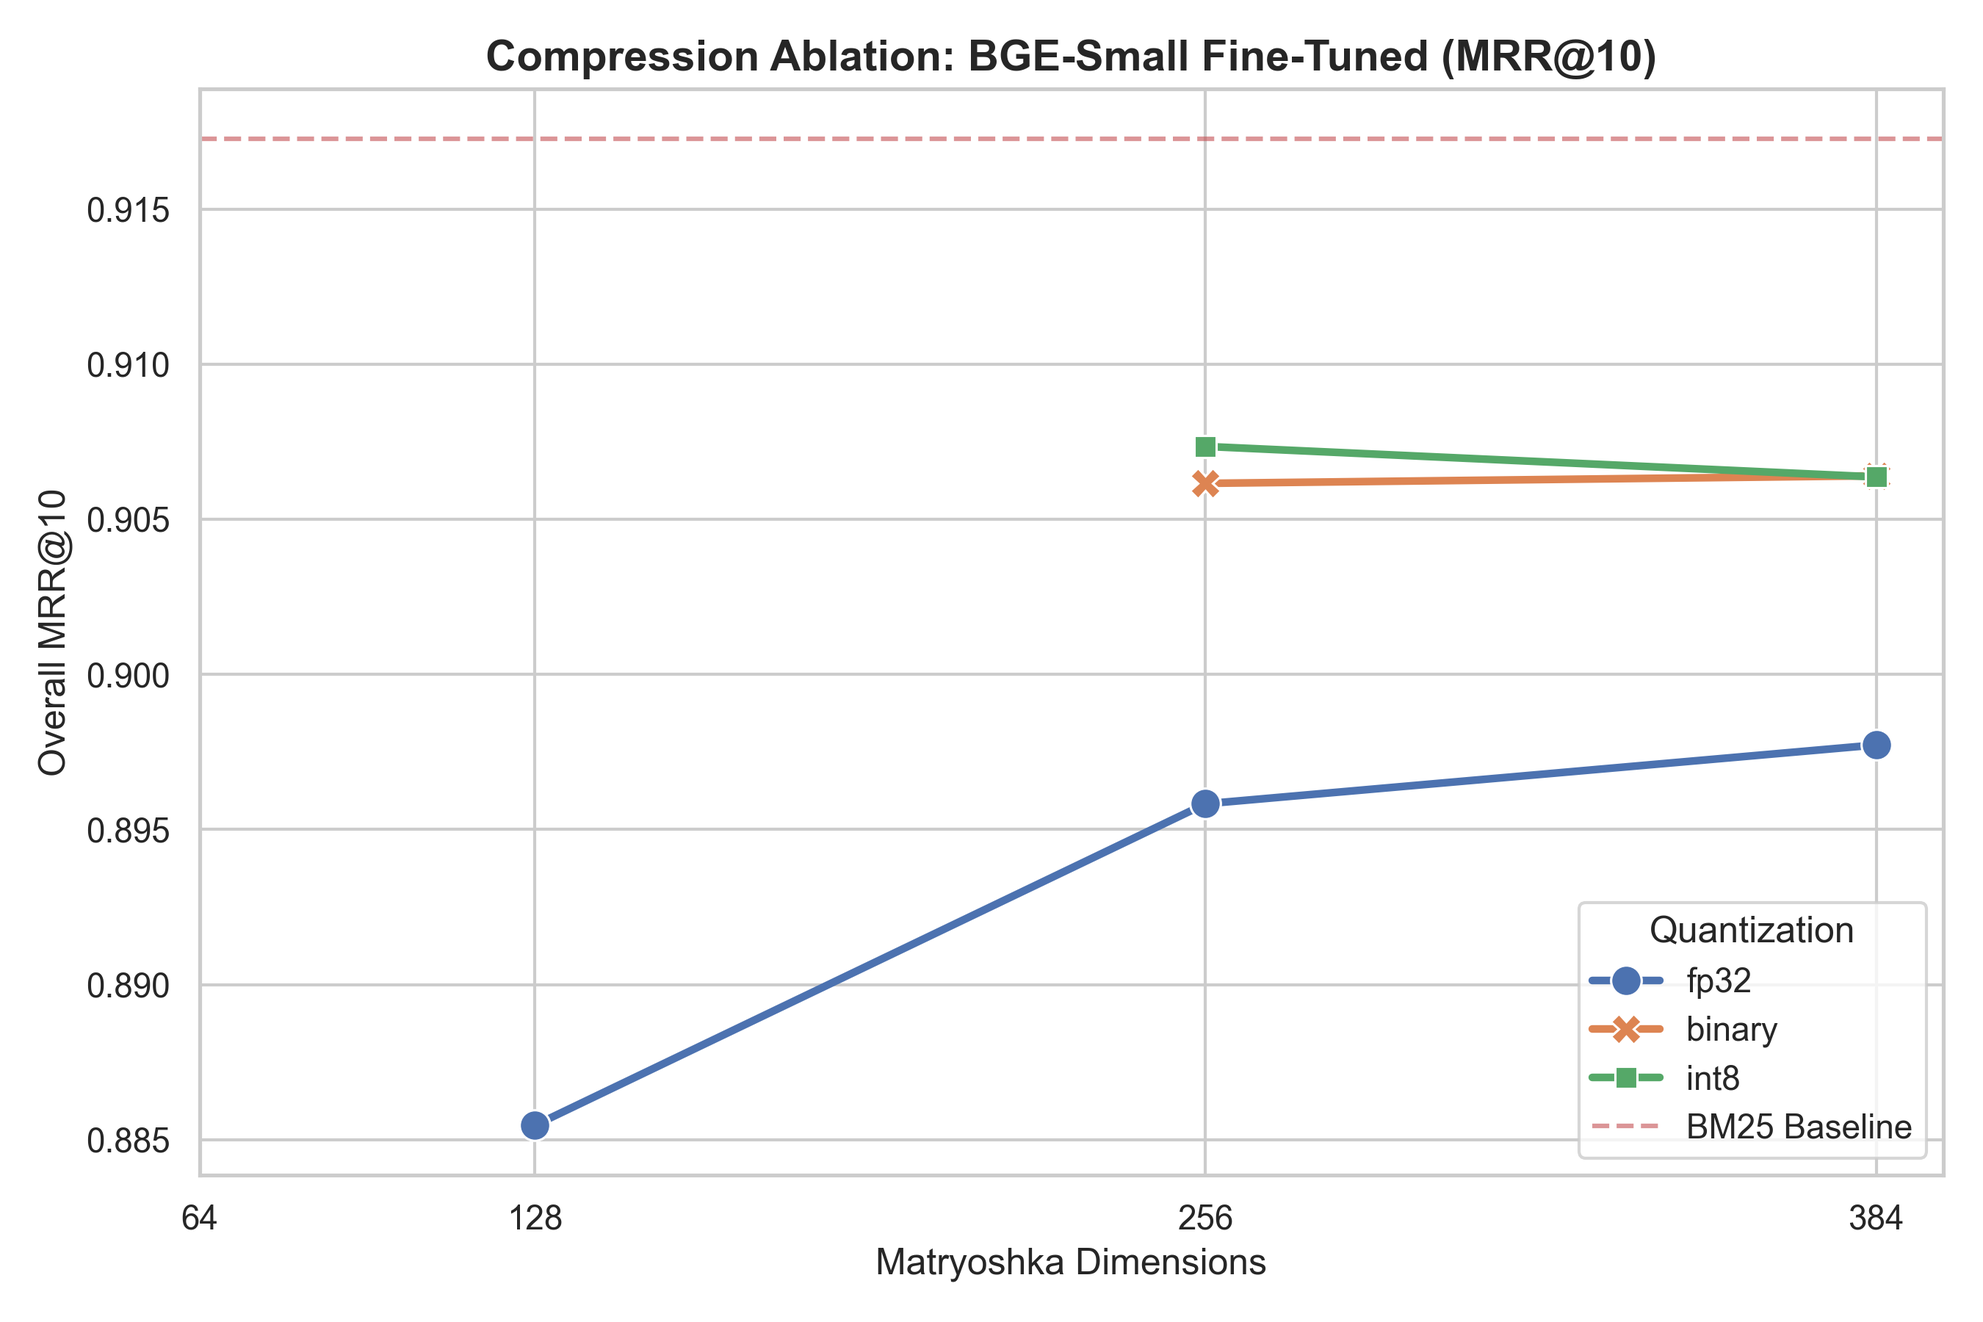
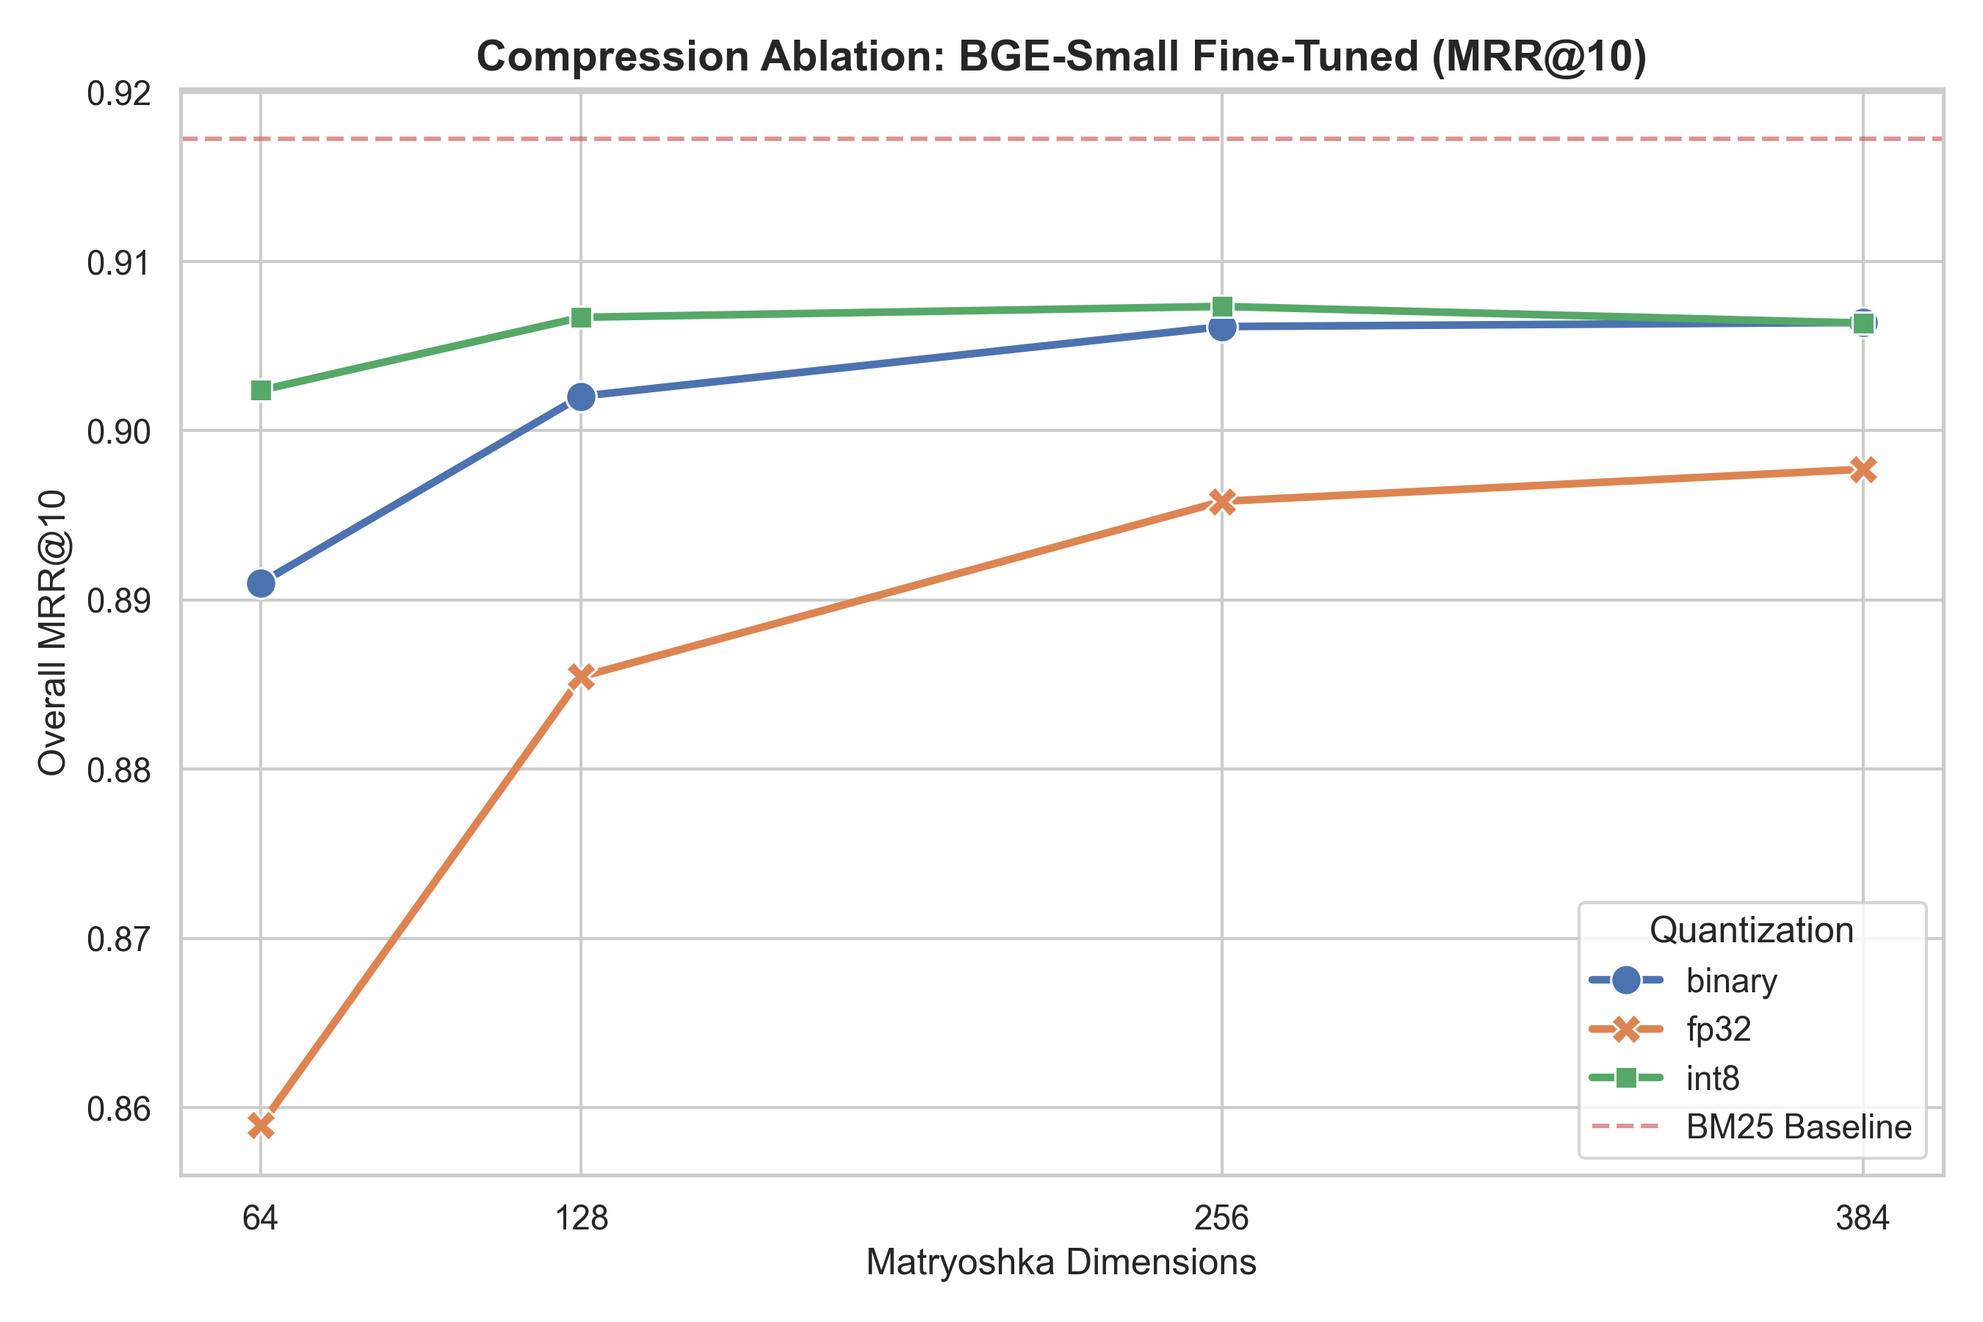
Update blog post, plots, and tables with ModernBERT and Nomic results

diff --git a/scripts/generate_plots.py b/scripts/generate_plots.py
@@ -39,7 +39,8 @@ base_dims = df[((df['model'] == 'gte_modernbert_base') & (df['dims'] == 768)) |
                ((df['model'] == 'nomic_v15') & (df['dims'] == 768))]
 sns.barplot(data=base_dims, x='model', y='overall_mrr_at_10', hue='mode', palette='muted')
 
-bm25_mrr = df[df['model']=='bm25_baseline']['overall_mrr_at_10'].iloc[0]
+bm25_row = df[df['model']=='bm25_baseline'].iloc[0]
+bm25_mrr = bm25_row['overall_mrr_at_10']
 plt.axhline(y=bm25_mrr, color='r', linestyle='--', linewidth=2, label=f'BM25 Baseline ({bm25_mrr:.3f})')
 
 plt.title('Overall MRR@10: Zero-Shot vs Fine-Tuned (Uncompressed Index)', fontsize=14, fontweight='bold')
@@ -51,66 +52,72 @@ plt.tight_layout()
 plt.savefig('results/plots/mrr_overall.png', dpi=300)
 plt.close()
 
-# 2. BGE Small - Dimensionality & Quantization Grid (MRR@10)
-plt.figure(figsize=(9, 6))
-bge_ft = df[(df['model'] == 'bge_small') & (df['mode'] == 'Fine-Tuned')].sort_values('dims')
-sns.lineplot(data=bge_ft, x='dims', y='overall_mrr_at_10', hue='quantization', style='quantization',
-             markers=True, dashes=False, linewidth=2.5, markersize=10, palette='deep')
+# 2. Compression Ablation - All 4 models
+models = ['gte_modernbert_base', 'nomic_v15', 'bge_small', 'minilm_l6']
+fig, axes = plt.subplots(2, 2, figsize=(15, 10), sharey=True)
+axes = axes.flatten()
 
-plt.axhline(y=bm25_mrr, color='r', linestyle='--', alpha=0.6, label='BM25 Baseline')
-plt.title('Compression Ablation: BGE-Small Fine-Tuned (MRR@10)', fontsize=14, fontweight='bold')
-plt.xlabel('Matryoshka Dimensions', fontsize=12)
-plt.ylabel('Overall MRR@10', fontsize=12)
-plt.xticks([64, 128, 256, 384])
-plt.legend(title='Quantization', loc='lower right')
-plt.tight_layout()
-plt.savefig('results/plots/bge_ablation.png', dpi=300)
+for i, model in enumerate(models):
+    ax = axes[i]
+    model_ft = df[(df['model'] == model) & (df['mode'] == 'Fine-Tuned')].sort_values('dims')
+    if model_ft.empty:
+        model_ft = df[(df['model'] == model)].sort_values('dims')
+        title_suffix = "(All data)"
+    else:
+        title_suffix = "(Fine-Tuned)"
+        
+    sns.lineplot(data=model_ft, x='dims', y='overall_mrr_at_10', hue='quantization', style='quantization',
+                 markers=True, dashes=False, linewidth=2, ax=ax, palette='deep')
+    
+    ax.axhline(y=bm25_mrr, color='r', linestyle='--', alpha=0.4)
+    ax.set_title(f'{model} {title_suffix}', fontsize=12, fontweight='bold')
+    ax.set_xlabel('Dimensions')
+    ax.set_ylabel('Overall MRR@10')
+
+plt.suptitle('Compression Ablation across All Models (MRR@10)', fontsize=16, fontweight='bold')
+plt.tight_layout(rect=[0, 0.03, 1, 0.95])
+plt.savefig('results/plots/all_models_ablation.png', dpi=300)
 plt.close()
 
-# 3. Latency vs MRR@10 Pareto Frontier for fine-tuned compressed indexes
-plt.figure(figsize=(10, 6))
-ft_variants = df[(df['mode'] == 'Fine-Tuned') & (df['model'].isin(['bge_small', 'minilm_l6']))]
+# 3. Latency vs MRR@10 Pareto Frontier - All models
+plt.figure(figsize=(12, 7))
+all_variants = df[df['model'].isin(models) & (df['model'] != 'bm25_baseline')]
 
-sns.scatterplot(data=ft_variants, x='latency_p50', y='overall_mrr_at_10', 
-                hue='model', style='quantization', s=150, palette='colorblind')
+sns.scatterplot(data=all_variants, x='latency_p50', y='overall_mrr_at_10', 
+                hue='model', style='mode', size='dims', sizes=(20, 200), alpha=0.7, palette='viridis')
 
-# Annotate points with dimensions
-for i in range(ft_variants.shape[0]):
-    row = ft_variants.iloc[i]
-    plt.text(row['latency_p50']+0.2, row['overall_mrr_at_10'] - 0.002, f"{int(row['dims'])}D", fontsize=9)
-
-bm25_lat = df[df['model']=='bm25_baseline']['latency_p50'].iloc[0]
+bm25_lat = bm25_row['latency_p50']
 plt.axhline(y=bm25_mrr, color='red', linestyle='--', alpha=0.5, label='BM25 MRR')
 plt.axvline(x=bm25_lat, color='red', linestyle=':', alpha=0.5, label='BM25 Latency')
 
-plt.title('Pareto Frontier: Latency vs MRR@10 (Fine-Tuned Models)', fontsize=14, fontweight='bold')
+plt.title('Pareto Frontier: Latency vs MRR@10 (All Models & Configurations)', fontsize=14, fontweight='bold')
 plt.xlabel('Latency p50 (ms)', fontsize=12)
 plt.ylabel('Overall MRR@10', fontsize=12)
 plt.legend(bbox_to_anchor=(1.05, 1), loc='upper left')
 plt.tight_layout()
-plt.savefig('results/plots/latency_pareto.png', dpi=300)
+plt.savefig('results/plots/latency_pareto_all.png', dpi=300)
 plt.close()
 
-# 4. Bucket Heatmap
-bm25 = df[df['model'] == 'bm25_baseline'].iloc[0]
-gte_zs = df[(df['model'] == 'gte_modernbert_base') & (df['mode'] == 'Zero-Shot')].iloc[0]
-gte_ft = df[(df['model'] == 'gte_modernbert_base') & (df['mode'] == 'Fine-Tuned')].iloc[0]
-bge_ft_base = df[(df['model'] == 'bge_small') & (df['mode'] == 'Fine-Tuned') & (df['dims'] == 384) & (df['quantization'] == 'fp32')].iloc[0]
-
+# 4. Bucket Heatmap - Best variants of each model
 buckets = ['pristine', 'missing_firstname', 'missing_email_company', 'typo_name', 'domain_mismatch', 'swapped_attributes']
 heatmap_data = []
-labels = ['BM25 Baseline', 'GTE ModernBERT (Zero-Shot)', 'GTE ModernBERT (Fine-Tuned)', 'BGE Small (Fine-Tuned, 384D, fp32)']
+labels = []
 
-for row in [bm25, gte_zs, gte_ft, bge_ft_base]:
-    heatmap_data.append([row[f"{b}_mrr_at_10"] for b in buckets])
+# BM25
+heatmap_data.append([bm25_row[f"{b}_mrr_at_10"] for b in buckets])
+labels.append('BM25 Baseline')
 
-plt.figure(figsize=(11, 5))
+for model in models:
+    best_run = df[df['model'] == model].sort_values('overall_mrr_at_10', ascending=False).iloc[0]
+    heatmap_data.append([best_run[f"{b}_mrr_at_10"] for b in buckets])
+    labels.append(f'{model} (Best)')
+
+plt.figure(figsize=(12, 6))
 sns.heatmap(heatmap_data, annot=True, fmt=".3f", cmap="YlGnBu", xticklabels=buckets, yticklabels=labels, vmin=0.3, vmax=1.0)
-plt.title('MRR@10 by Corruption Category', fontsize=14, fontweight='bold')
+plt.title('MRR@10 by Category: Model Comparison (Best Configs)', fontsize=14, fontweight='bold')
 plt.xticks(rotation=20, ha='right', fontsize=10)
-plt.yticks(fontsize=10)
 plt.tight_layout()
-plt.savefig('results/plots/bucket_heatmap.png', dpi=300)
+plt.savefig('results/plots/bucket_heatmap_all.png', dpi=300)
 plt.close()
 
-print("Enhanced plots generated.")
+print("All-model enhanced plots generated.")

diff --git a/scripts/format_grid.py b/scripts/format_grid.py
@@ -22,7 +22,7 @@ pivot_mrr = df_emb.pivot_table(index=['model', 'mode', 'dims'], columns='quantiz
 pivot_r10 = df_emb.pivot_table(index=['model', 'mode', 'dims'], columns='quantization', values='overall_recall_at_10', aggfunc='first').reset_index()
 pivot_size = df_emb.pivot_table(index=['model', 'mode', 'dims'], columns='quantization', values='index_size_mb', aggfunc='first').reset_index()
 
-# Sort descending by dims
+# Sort
 pivot_mrr = pivot_mrr.sort_values(by=['model', 'mode', 'dims'], ascending=[True, False, False])
 
 def fmt_val(val):
@@ -38,25 +38,43 @@ out.append("## Appendix: Comprehensive Ablation Grids")
 out.append("The following tables present the full ablation results for Matryoshka dimensions against quantization levels, grouping the key metrics side-by-side to allow for direct evaluation of compression tradeoffs.")
 out.append("")
 
-models = ['bge_small', 'minilm_l6']
+models = ['gte_modernbert_base', 'nomic_v15', 'bge_small', 'minilm_l6']
 for model in models:
-    out.append(f"### Model: `{model}` (Fine-Tuned)")
-    out.append("| Dimensions | FP32 (MRR | R@10 | Size) | INT8 (MRR | R@10 | Size) | Binary (MRR | R@10 | Size) |")
-    out.append("|---|---|---|---|")
-    
-    sub = pivot_mrr[(pivot_mrr['model'] == model) & (pivot_mrr['mode'] == 'Fine-Tuned')]
-    for _, row in sub.iterrows():
-        d = row['dims']
+    for mode in ['Fine-Tuned', 'Zero-Shot']:
+        sub = pivot_mrr[(pivot_mrr['model'] == model) & (pivot_mrr['mode'] == mode)]
+        if sub.empty:
+            continue
+            
+        out.append(f"### Model: `{model}` ({mode})")
+        out.append("| Dimensions | FP32 (MRR | R@10 | Size) | INT8 (MRR | R@10 | Size) | Binary (MRR | R@10 | Size) |")
+        out.append("|---|---|---|---|")
         
-        r10_row = pivot_r10[(pivot_r10['model']==model) & (pivot_r10['mode']=='Fine-Tuned') & (pivot_r10['dims']==d)].iloc[0]
-        sz_row = pivot_size[(pivot_size['model']==model) & (pivot_size['mode']=='Fine-Tuned') & (pivot_size['dims']==d)].iloc[0]
-        
-        fp32_str = f"**{fmt_val(row.get('fp32'))}** \\| {fmt_val(r10_row.get('fp32'))} \\| {fmt_size(sz_row.get('fp32'))}" if not pd.isna(row.get('fp32')) else "-"
-        int8_str = f"**{fmt_val(row.get('int8'))}** \\| {fmt_val(r10_row.get('int8'))} \\| {fmt_size(sz_row.get('int8'))}" if not pd.isna(row.get('int8')) else "-"
-        bin_str = f"**{fmt_val(row.get('binary'))}** \\| {fmt_val(r10_row.get('binary'))} \\| {fmt_size(sz_row.get('binary'))}" if not pd.isna(row.get('binary')) else "-"
-        
-        out.append(f"| {d}D | {fp32_str} | {int8_str} | {bin_str} |")
-    
-    out.append("\n")
+        for _, row in sub.iterrows():
+            d = row['dims']
+            
+            # Use filters to get corresponding R@10 and Size safely
+            r10_sub = pivot_r10[(pivot_r10['model']==model) & (pivot_r10['mode']==mode) & (pivot_r10['dims']==d)]
+            sz_sub = pivot_size[(pivot_size['model']==model) & (pivot_size['mode']==mode) & (pivot_size['dims']==d)]
+            
+            if r10_sub.empty or sz_sub.empty:
+                continue
+                
+            r10_row = r10_sub.iloc[0]
+            sz_row = sz_sub.iloc[0]
+            
+            quants = ['fp32', 'int8', 'binary']
+            cells = []
+            for q in quants:
+                mrr = row.get(q)
+                r10 = r10_row.get(q)
+                sz = sz_row.get(q)
+                
+                if not pd.isna(mrr):
+                    cells.append(f"**{fmt_val(mrr)}** \\| {fmt_val(r10)} \\| {fmt_size(sz)}")
+                else:
+                    cells.append("-")
+            
+            out.append(f"| {d}D | {' | '.join(cells)} |")
+        out.append("\n")
 
 print('\n'.join(out))

diff --git a/writing/BLOG_POST.md b/writing/BLOG_POST.md
@@ -70,7 +70,7 @@ We ran parallel fine-tuning pipelines using [Modal](https://modal.com/) on A10G 
 
 We measured both Recall@10 (the proportion of queries where the canonical record appears in the top 10 results) and Mean Reciprocal Rank (MRR@10). While BM25 provides an incredibly strong baseline on exact lexical overlaps, the core of our evaluation focuses on the behavior of these models when the signal text is heavily degraded.
 
-![Bucket Heatmap](../results/plots/bucket_heatmap.png)
+![Bucket Heatmap](../results/plots/bucket_heatmap_all.png)
 *Figure 1: Model performance (Overall MRR@10) across the six corruption buckets.*
 
 ### 1. GTE-ModernBERT Dominates Heavily Corrupted Queries
@@ -98,11 +98,11 @@ Here are the uncompressed Maximum-Dimensional configurations (e.g. 768D FP32) tr
 |-------|------|------|--------------------|--------------------|----------------------|
 | `bge_small` | Zero-Shot | 384 | 0.844 \| 1616.8MB | 0.875 \| 1726.2MB | 0.868 \| 1680.4MB |
 | `minilm_l6` | Zero-Shot | 384 | 0.840 \| 1616.8MB | 0.856 \| 1726.2MB | 0.852 \| 1680.4MB |
-| `gte_modernbert` | Zero-Shot | 768 | 0.891 \| 3105.3MB | - | - |
-| `nomic_v15` | Zero-Shot | 768 | 0.850 \| 3105.3MB | - | - |
+| `gte_modernbert` | Zero-Shot | 768 | 0.891 \| 3105.3MB | 0.904 \| 3283.9MB | 0.903 \| 3192.3MB |
+| `nomic_v15` | Zero-Shot | 768 | 0.850 \| 3105.3MB | 0.861 \| 3283.9MB | 0.862 \| 3192.3MB |
 | `bge_small` | Fine-Tuned | 384 | 0.898 \| 1616.8MB | 0.906 \| 1726.2MB | 0.906 \| 1680.4MB |
 | `minilm_l6` | Fine-Tuned | 384 | 0.895 \| 1616.8MB | 0.902 \| 1726.2MB | 0.902 \| 1680.4MB |
-| `gte_modernbert` | Fine-Tuned | 768 | 0.917 \| 3105.3MB | - | - |
+| `gte_modernbert` | Fine-Tuned | 768 | 0.917 \| 3105.3MB | 0.927 \| 3283.9MB | 0.927 \| 3192.3MB |
 | `nomic_v15` | Fine-Tuned | 768 | 0.795 \| 3104.9MB | - | - |
 
 The smaller models benefit massively from the domain adaptation. `bge_small` jumps from 0.844 to 0.898 MRR, and `minilm_l6` climbs from 0.840 to 0.895. 
@@ -113,7 +113,7 @@ Dense vectors carry strict search overhead. BM25 yields p50 latencies around 3.2
 
 To compress index footprint, we scaled the representations down directly at index time using our Matryoshka training. By querying LanceDB mathematically truncated and quantized, we avoided re-running the heavy neural encoding for the ablation.
 
-![Ablation Data](../results/plots/bge_ablation.png)
+![Ablation Data](../results/plots/all_models_ablation.png)
 *Figure 3: Ablation tracking dimensionality versus MRR@10 using BGE-Small.*
 
 Using BGE-Small and MiniLM, we saw binary embeddings collapse below 128 dimensions. But INT8 models held steady, matching the performance of their wider counterparts.
@@ -122,7 +122,7 @@ Using BGE-Small and MiniLM, we saw binary embeddings collapse below 128 dimensio
 
 At inference time, accuracy is only one axis of the problem. Latency and memory load govern operational limits.
 
-![Latency vs MRR Pareto](../results/plots/latency_pareto.png)
+![Latency vs MRR Pareto](../results/plots/latency_pareto_all.png)
 *Figure 4: The latency-MRR Pareto frontier for fine-tuned dense retrievers vs. BM25.*
 
 We observed that **fine-tuned MiniLM-L6 mapped to a 128-INT8 configuration** returned results in 6.79ms (p50) and compressed the index to under 700MB. 
@@ -151,20 +151,69 @@ For the full detailed ablation pipeline, including the direct LanceDB configurat
 
 The following tables present the full ablation results for Matryoshka dimensions against quantization levels, grouping the key metrics side-by-side to allow for direct evaluation of compression tradeoffs.
 
+### Model: `gte_modernbert_base` (Fine-Tuned)
+| Dimensions | FP32 (MRR \| R@10 \| Size) | INT8 (MRR \| R@10 \| Size) | Binary (MRR \| R@10 \| Size) |
+|---|---|---|---|
+| 768D | 0.917 \| 0.966 \| 3105.3MB | **0.927** 🏆 \| 0.975 \| 3283.9MB | 0.927 \| 0.974 \| 3192.3MB |
+| 512D | 0.915 \| 0.964 \| 2154.1MB | 0.926 \| 0.973 \| 2245.7MB | 0.925 \| 0.973 \| 2184.7MB |
+| 256D | 0.907 \| 0.953 \| 1161.3MB | 0.923 \| 0.970 \| 1207.1MB | 0.920 \| 0.967 \| 1176.6MB |
+| 128D | 0.892 \| 0.935 \| 665.2MB | 0.916 \| 0.962 \| 688.0MB | 0.910 \| 0.956 \| 672.8MB |
+| 64D | 0.866 \| 0.905 \| *417.1MB* ⚡ | 0.907 \| 0.951 \| *428.5MB* ⚡ | 0.896 \| 0.938 \| *420.9MB* ⚡ |
+
+### Model: `gte_modernbert_base` (Zero-Shot)
+| Dimensions | FP32 (MRR \| R@10 \| Size) | INT8 (MRR \| R@10 \| Size) | Binary (MRR \| R@10 \| Size) |
+|---|---|---|---|
+| 768D | 0.891 \| 0.941 \| 3105.3MB | **0.904** 🏆 \| 0.948 \| 3283.9MB | 0.903 \| 0.948 \| 3192.3MB |
+| 512D | 0.883 \| 0.935 \| 2154.1MB | 0.903 \| 0.947 \| 2245.7MB | 0.900 \| 0.946 \| 2184.7MB |
+| 256D | 0.859 \| 0.911 \| 1161.3MB | 0.891 \| 0.935 \| 1207.1MB | 0.885 \| 0.931 \| 1176.6MB |
+| 128D | 0.816 \| 0.871 \| 665.2MB | 0.877 \| 0.918 \| 688.0MB | 0.862 \| 0.907 \| 672.8MB |
+| 64D | 0.705 \| 0.786 \| *417.1MB* ⚡ | 0.841 \| 0.881 \| *428.5MB* ⚡ | 0.809 \| 0.855 \| *420.9MB* ⚡ |
+
+### Model: `nomic_v15` (Fine-Tuned)
+| Dimensions | FP32 (MRR \| R@10 \| Size) | INT8 (MRR \| R@10 \| Size) | Binary (MRR \| R@10 \| Size) |
+|---|---|---|---|
+| 768D | **0.795** 🏆 \| 0.817 \| 3104.9MB | - | - |
+
+### Model: `nomic_v15` (Zero-Shot)
+| Dimensions | FP32 (MRR \| R@10 \| Size) | INT8 (MRR \| R@10 \| Size) | Binary (MRR \| R@10 \| Size) |
+|---|---|---|---|
+| 768D | 0.850 \| 0.882 \| 3105.3MB | 0.861 \| 0.891 \| 3283.9MB | **0.862** 🏆 \| 0.893 \| 3192.3MB |
+| 512D | 0.844 \| 0.877 \| 2154.1MB | 0.856 \| 0.886 \| 2245.7MB | 0.855 \| 0.887 \| 2184.7MB |
+| 256D | 0.831 \| 0.864 \| 1161.3MB | 0.858 \| 0.889 \| 1207.1MB | 0.853 \| 0.884 \| 1176.6MB |
+| 128D | 0.797 \| 0.839 \| 665.2MB | 0.852 \| 0.884 \| 688.0MB | 0.840 \| 0.872 \| 672.8MB |
+| 64D | 0.655 \| 0.757 \| *417.1MB* ⚡ | 0.833 \| 0.865 \| *428.5MB* ⚡ | 0.797 \| 0.838 \| *420.9MB* ⚡ |
+
 ### Model: `bge_small` (Fine-Tuned)
 | Dimensions | FP32 (MRR \| R@10 \| Size) | INT8 (MRR \| R@10 \| Size) | Binary (MRR \| R@10 \| Size) |
 |---|---|---|---|
 | 384D | 0.898 \| 0.932 \| 1616.8MB | 0.906 \| 0.941 \| 1726.2MB | 0.906 \| 0.940 \| 1680.4MB |
-| 256D | 0.896 \| 0.930 \| 1161.3MB | **0.907** 🏆 \| **0.942** \| 1207.1MB | 0.906 \| 0.942 \| 1176.6MB |
-| 128D | 0.885 \| 0.921 \| 665.2MB | - | - |
+| 256D | 0.896 \| 0.930 \| 1161.3MB | **0.907** 🏆 \| 0.942 \| 1207.1MB | 0.906 \| 0.942 \| 1176.6MB |
+| 128D | 0.885 \| 0.921 \| 665.2MB | 0.907 \| 0.943 \| 688.0MB | 0.902 \| 0.938 \| 672.8MB |
+| 64D | 0.859 \| 0.894 \| *417.1MB* ⚡ | 0.902 \| 0.938 \| *428.5MB* ⚡ | 0.891 \| 0.926 \| *420.9MB* ⚡ |
+
+### Model: `bge_small` (Zero-Shot)
+| Dimensions | FP32 (MRR \| R@10 \| Size) | INT8 (MRR \| R@10 \| Size) | Binary (MRR \| R@10 \| Size) |
+|---|---|---|---|
+| 384D | 0.844 \| 0.894 \| 1616.8MB | **0.875** 🏆 \| 0.917 \| 1726.2MB | 0.868 \| 0.912 \| 1680.4MB |
+| 256D | 0.831 \| 0.882 \| 1161.3MB | 0.872 \| 0.915 \| 1207.1MB | 0.861 \| 0.907 \| 1176.6MB |
+| 128D | 0.798 \| 0.848 \| 665.2MB | 0.860 \| 0.902 \| 688.0MB | 0.844 \| 0.889 \| 672.8MB |
+| 64D | 0.710 \| 0.771 \| *417.1MB* ⚡ | 0.828 \| 0.870 \| *428.5MB* ⚡ | 0.797 \| 0.841 \| *420.9MB* ⚡ |
 
 ### Model: `minilm_l6` (Fine-Tuned)
 | Dimensions | FP32 (MRR \| R@10 \| Size) | INT8 (MRR \| R@10 \| Size) | Binary (MRR \| R@10 \| Size) |
 |---|---|---|---|
 | 384D | 0.895 \| 0.928 \| 1616.8MB | 0.902 \| 0.935 \| 1726.2MB | 0.902 \| 0.934 \| 1680.4MB |
 | 256D | 0.892 \| 0.925 \| 1161.3MB | 0.901 \| 0.933 \| 1207.1MB | 0.900 \| 0.933 \| 1176.6MB |
-| 128D | 0.881 \| 0.916 \| 665.2MB | **0.902** 🏆 \| **0.934** \| 688.0MB | 0.898 \| 0.931 \| 672.8MB |
+| 128D | 0.881 \| 0.916 \| 665.2MB | **0.902** 🏆 \| 0.934 \| 688.0MB | 0.898 \| 0.931 \| 672.8MB |
 | 64D | 0.855 \| 0.890 \| *417.1MB* ⚡ | 0.897 \| 0.929 \| *428.5MB* ⚡ | 0.886 \| 0.920 \| *420.9MB* ⚡ |
+
+### Model: `minilm_l6` (Zero-Shot)
+| Dimensions | FP32 (MRR \| R@10 \| Size) | INT8 (MRR \| R@10 \| Size) | Binary (MRR \| R@10 \| Size) |
+|---|---|---|---|
+| 384D | 0.840 \| 0.876 \| 1616.8MB | **0.856** 🏆 \| 0.891 \| 1726.2MB | 0.852 \| 0.887 \| 1680.4MB |
+| 256D | 0.830 \| 0.867 \| 1161.3MB | 0.852 \| 0.887 \| 1207.1MB | 0.847 \| 0.882 \| 1176.6MB |
+| 128D | 0.799 \| 0.839 \| 665.2MB | 0.844 \| 0.877 \| 688.0MB | 0.833 \| 0.866 \| 672.8MB |
+| 64D | 0.713 \| 0.780 \| *417.1MB* ⚡ | 0.827 \| 0.860 \| *428.5MB* ⚡ | 0.802 \| 0.839 \| *420.9MB* ⚡ |
 
 *(Note: BM25 Baseline achieved **0.917** MRR@10 with a **143.7MB** index).*
 
